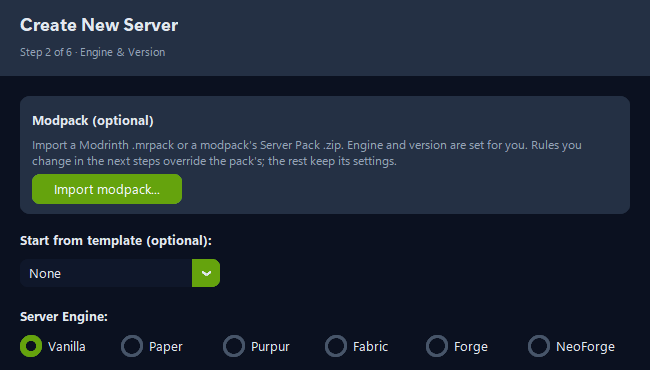
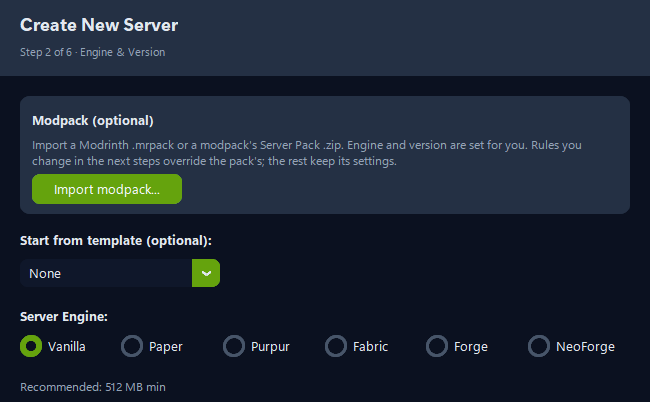
feat(site): motion that points at the features, cleaner wizard crops
- Wizard screenshots: a focus ring springs onto Import modpack and
  Browse worlds on CurseForge when the section scrolls in, then pulses
  twice; shots lift slightly on hover.
- Feature icons draw stroke by stroke; the rule above each getting-started
  step fills left to right in order; engines arrive one by one with a
  pulsing dot on NeoForge.
- All of it keys off .vitra-revealed, is static under reduced motion, and
  the page reveals everything if Vitra fails to load.
- Wizard crops end on whole controls instead of mid-field.

diff --git a/index.html b/index.html
@@ -56,20 +56,20 @@
 
   <!-- Line icons, same style as the app's own set (2px stroke, round caps) -->
   <svg width="0" height="0" style="position:absolute" aria-hidden="true">
-    <symbol id="i-layers" viewBox="0 0 24 24"><path d="M12 3 2 8l10 5 10-5-10-5z"/><path d="m2 13 10 5 10-5"/></symbol>
-    <symbol id="i-globe" viewBox="0 0 24 24"><circle cx="12" cy="12" r="9"/><path d="M3 12h18M12 3a14 14 0 0 1 0 18M12 3a14 14 0 0 0 0 18"/></symbol>
-    <symbol id="i-cup" viewBox="0 0 24 24"><path d="M4 9h12v5a5 5 0 0 1-5 5H9a5 5 0 0 1-5-5V9z"/><path d="M16 10h1.5a2.5 2.5 0 0 1 0 5H16"/><path d="M8 3v3M12 3v3"/></symbol>
-    <symbol id="i-pulse" viewBox="0 0 24 24"><path d="M3 12h4l2-6 4 12 2-6h6"/></symbol>
-    <symbol id="i-package" viewBox="0 0 24 24"><path d="M21 8 12 3 3 8v8l9 5 9-5V8z"/><path d="m3 8 9 5 9-5M12 13v8"/></symbol>
-    <symbol id="i-users" viewBox="0 0 24 24"><circle cx="9" cy="8" r="3.5"/><path d="M2.5 20a6.5 6.5 0 0 1 13 0"/><path d="M16 4.5a3.5 3.5 0 0 1 0 7M18 14a6 6 0 0 1 3.5 6"/></symbol>
-    <symbol id="i-archive" viewBox="0 0 24 24"><rect x="3" y="4" width="18" height="4" rx="1"/><path d="M5 8v11a1 1 0 0 0 1 1h12a1 1 0 0 0 1-1V8M10 12h4"/></symbol>
-    <symbol id="i-shield" viewBox="0 0 24 24"><path d="M12 3 4 6v6c0 4.5 3.4 8 8 9 4.6-1 8-4.5 8-9V6l-8-3z"/><path d="m9 12 2 2 4-4"/></symbol>
-    <symbol id="i-book" viewBox="0 0 24 24"><path d="M4 5a2 2 0 0 1 2-2h13v16H6a2 2 0 0 0-2 2V5z"/><path d="M4 19a2 2 0 0 1 2-2h13"/></symbol>
-    <symbol id="i-grid" viewBox="0 0 24 24"><rect x="3" y="3" width="7" height="7" rx="1"/><rect x="14" y="3" width="7" height="7" rx="1"/><rect x="3" y="14" width="7" height="7" rx="1"/><path d="M14 17.5h7M17.5 14v7"/></symbol>
-    <symbol id="i-list" viewBox="0 0 24 24"><path d="M9 6h11M9 12h11M9 18h11M4.5 6h.01M4.5 12h.01M4.5 18h.01"/></symbol>
-    <symbol id="i-alert" viewBox="0 0 24 24"><circle cx="12" cy="12" r="9"/><path d="M12 8v5M12 16h.01"/></symbol>
-    <symbol id="i-arrow" viewBox="0 0 24 24"><path d="M5 12h14M13 6l6 6-6 6"/></symbol>
-    <symbol id="i-download" viewBox="0 0 24 24"><path d="M21 15v4a2 2 0 0 1-2 2H5a2 2 0 0 1-2-2v-4"/><path d="m7 10 5 5 5-5M12 15V3"/></symbol>
+    <symbol id="i-layers" viewBox="0 0 24 24"><path pathLength="1" d="M12 3 2 8l10 5 10-5-10-5z"/><path pathLength="1" d="m2 13 10 5 10-5"/></symbol>
+    <symbol id="i-globe" viewBox="0 0 24 24"><circle pathLength="1" cx="12" cy="12" r="9"/><path pathLength="1" d="M3 12h18M12 3a14 14 0 0 1 0 18M12 3a14 14 0 0 0 0 18"/></symbol>
+    <symbol id="i-cup" viewBox="0 0 24 24"><path pathLength="1" d="M4 9h12v5a5 5 0 0 1-5 5H9a5 5 0 0 1-5-5V9z"/><path pathLength="1" d="M16 10h1.5a2.5 2.5 0 0 1 0 5H16"/><path pathLength="1" d="M8 3v3M12 3v3"/></symbol>
+    <symbol id="i-pulse" viewBox="0 0 24 24"><path pathLength="1" d="M3 12h4l2-6 4 12 2-6h6"/></symbol>
+    <symbol id="i-package" viewBox="0 0 24 24"><path pathLength="1" d="M21 8 12 3 3 8v8l9 5 9-5V8z"/><path pathLength="1" d="m3 8 9 5 9-5M12 13v8"/></symbol>
+    <symbol id="i-users" viewBox="0 0 24 24"><circle pathLength="1" cx="9" cy="8" r="3.5"/><path pathLength="1" d="M2.5 20a6.5 6.5 0 0 1 13 0"/><path pathLength="1" d="M16 4.5a3.5 3.5 0 0 1 0 7M18 14a6 6 0 0 1 3.5 6"/></symbol>
+    <symbol id="i-archive" viewBox="0 0 24 24"><rect pathLength="1" x="3" y="4" width="18" height="4" rx="1"/><path pathLength="1" d="M5 8v11a1 1 0 0 0 1 1h12a1 1 0 0 0 1-1V8M10 12h4"/></symbol>
+    <symbol id="i-shield" viewBox="0 0 24 24"><path pathLength="1" d="M12 3 4 6v6c0 4.5 3.4 8 8 9 4.6-1 8-4.5 8-9V6l-8-3z"/><path pathLength="1" d="m9 12 2 2 4-4"/></symbol>
+    <symbol id="i-book" viewBox="0 0 24 24"><path pathLength="1" d="M4 5a2 2 0 0 1 2-2h13v16H6a2 2 0 0 0-2 2V5z"/><path pathLength="1" d="M4 19a2 2 0 0 1 2-2h13"/></symbol>
+    <symbol id="i-grid" viewBox="0 0 24 24"><rect pathLength="1" x="3" y="3" width="7" height="7" rx="1"/><rect pathLength="1" x="14" y="3" width="7" height="7" rx="1"/><rect pathLength="1" x="3" y="14" width="7" height="7" rx="1"/><path pathLength="1" d="M14 17.5h7M17.5 14v7"/></symbol>
+    <symbol id="i-list" viewBox="0 0 24 24"><path pathLength="1" d="M9 6h11M9 12h11M9 18h11M4.5 6h.01M4.5 12h.01M4.5 18h.01"/></symbol>
+    <symbol id="i-alert" viewBox="0 0 24 24"><circle pathLength="1" cx="12" cy="12" r="9"/><path pathLength="1" d="M12 8v5M12 16h.01"/></symbol>
+    <symbol id="i-arrow" viewBox="0 0 24 24"><path pathLength="1" d="M5 12h14M13 6l6 6-6 6"/></symbol>
+    <symbol id="i-download" viewBox="0 0 24 24"><path pathLength="1" d="M21 15v4a2 2 0 0 1-2 2H5a2 2 0 0 1-2-2v-4"/><path pathLength="1" d="m7 10 5 5 5-5M12 15V3"/></symbol>
   </svg>
 
   <div id="sections-wrap">
@@ -89,8 +89,11 @@
 
         <div class="byo-grid">
           <figure class="shot vitra-reveal vitra-reveal-up vitra-delay-100">
-            <img src="assets/wizard-modpack.png" width="650" height="370" loading="lazy"
+            <div class="shot-media">
+              <img src="assets/wizard-modpack.png" width="650" height="402" loading="lazy"
                  alt="Creation wizard, Engine and Version step, with an Import modpack button and the six server engines">
+              <span class="focus" aria-hidden="true" style="--x:4.2%;--y:42.4%;--w:24.6%;--h:9.6%"></span>
+            </div>
             <figcaption>
               <strong>Import a modpack</strong>
               <span>The pack is checked before anything is created: loader, Minecraft version, file names and free disk space. If creation fails anyway, the half-built server is removed and you see why.</span>
@@ -98,8 +101,11 @@
           </figure>
 
           <figure class="shot vitra-reveal vitra-reveal-up vitra-delay-200">
-            <img src="assets/wizard-world.png" width="650" height="370" loading="lazy"
+            <div class="shot-media">
+              <img src="assets/wizard-world.png" width="650" height="402" loading="lazy"
                  alt="Creation wizard, World and Network step, with Import existing world selected and a link to browse worlds on CurseForge">
+              <span class="focus" aria-hidden="true" style="--x:52%;--y:57.6%;--w:33.4%;--h:8.8%"></span>
+            </div>
             <figcaption>
               <strong>Bring an existing world</strong>
               <span>ZBB reads the version the world was last saved with. A world newer than the server is refused, because an older server can corrupt it. Older worlds are upgraded on first start and the original stays untouched.</span>
@@ -107,14 +113,14 @@
           </figure>
         </div>
 
-        <ul class="engines vitra-reveal vitra-reveal-up" aria-label="Supported server engines">
-          <li>Engines</li>
-          <li>Vanilla</li>
-          <li>Paper</li>
-          <li>Purpur</li>
-          <li>Fabric</li>
-          <li>Forge</li>
-          <li class="is-new">NeoForge</li>
+        <ul class="engines vitra-reveal" aria-label="Supported server engines">
+          <li style="--i:0">Engines</li>
+          <li style="--i:1">Vanilla</li>
+          <li style="--i:2">Paper</li>
+          <li style="--i:3">Purpur</li>
+          <li style="--i:4">Fabric</li>
+          <li style="--i:5">Forge</li>
+          <li class="is-new" style="--i:6">NeoForge</li>
         </ul>
       </div>
     </section>

diff --git a/style.css b/style.css
@@ -527,10 +527,25 @@ body { background: var(--ground); color: var(--ink); }
   display: grid;
   gap: 0.6rem;
   align-content: start;
+  position: relative;
   padding-top: 1.25rem;
-  border-top: 2px solid var(--line-strong);
   counter-increment: step;
   min-width: 0;
+}
+
+/* A faint track with an accent fill on top (filled in MOTION below) */
+.step {
+  background: linear-gradient(var(--line-strong), var(--line-strong)) top left / 100% 2px no-repeat;
+}
+
+.step::after {
+  content: '';
+  position: absolute;
+  top: 0;
+  left: 0;
+  right: 0;
+  height: 2px;
+  background: var(--accent);
 }
 
 .step::before {
@@ -669,6 +684,110 @@ a:focus-visible {
 .site-footer a { color: var(--ink-soft); text-decoration: none; }
 .site-footer a:hover { color: var(--accent); }
 
+
+/* ═══════════════════════════════════════════
+   MOTION
+   Hooked to .vitra-revealed (added by Vitra.reveal
+   when an element scrolls in, or at once under
+   reduced motion). One idea per section.
+═══════════════════════════════════════════ */
+
+:root {
+  --ease-out-quart: cubic-bezier(0.25, 1, 0.5, 1);
+  --ease-spring: cubic-bezier(0.34, 1.56, 0.64, 1);
+}
+
+/* Wizard shots: a focus ring finds the control the caption talks about */
+.shot-media { position: relative; }
+
+.focus {
+  position: absolute;
+  left: var(--x);
+  top: var(--y);
+  width: var(--w);
+  height: var(--h);
+  border: 2px solid var(--accent);
+  border-radius: 8px;
+  box-shadow: 0 0 0 4px hsla(158, 64%, 52%, 0.18), 0 0 24px hsla(158, 64%, 52%, 0.35);
+  pointer-events: none;
+  opacity: 0;
+  transform: scale(1.35);
+}
+
+.vitra-revealed .focus {
+  animation:
+    focus-in 0.7s var(--ease-spring) 0.55s forwards,
+    focus-pulse 2.4s ease-in-out 1.4s 2;
+}
+
+@keyframes focus-in {
+  to { opacity: 1; transform: scale(1); }
+}
+
+@keyframes focus-pulse {
+  0%, 100% { box-shadow: 0 0 0 4px hsla(158, 64%, 52%, 0.18), 0 0 24px hsla(158, 64%, 52%, 0.35); }
+  50%      { box-shadow: 0 0 0 9px hsla(158, 64%, 52%, 0.06), 0 0 36px hsla(158, 64%, 52%, 0.5); }
+}
+
+.shot img { transition: transform 0.5s var(--ease-out-quart), box-shadow 0.5s var(--ease-out-quart); }
+.shot:hover img {
+  transform: translateY(-4px);
+  box-shadow: 0 32px 70px -24px rgba(0, 0, 0, 0.8);
+}
+
+/* Feature icons draw themselves stroke by stroke */
+.feature .ico {
+  stroke-dasharray: 1;
+  stroke-dashoffset: 1;
+  transition: stroke-dashoffset 1.1s var(--ease-out-quart) 0.2s;
+}
+
+.feature.vitra-revealed .ico { stroke-dashoffset: 0; }
+
+/* Steps: the rule above each step fills in order */
+.step::after {
+  transform: scaleX(0);
+  transform-origin: left;
+  transition: transform 0.9s var(--ease-out-quart) 0.25s;
+}
+
+.step.vitra-revealed::after { transform: scaleX(1); }
+
+/* Engines arrive one by one; NeoForge, the new one, lands last */
+.engines li {
+  opacity: 0;
+  transform: translateY(8px);
+  transition: opacity 0.45s var(--ease-out-quart), transform 0.45s var(--ease-out-quart);
+  transition-delay: calc(var(--i, 0) * 70ms);
+}
+
+.engines.vitra-revealed li { opacity: 1; transform: none; }
+
+.engines .is-new { position: relative; }
+.engines .is-new::after {
+  content: '';
+  position: absolute;
+  top: -2px;
+  right: -9px;
+  width: 6px;
+  height: 6px;
+  border-radius: 50%;
+  background: var(--accent);
+  opacity: 0;
+}
+
+.engines.vitra-revealed .is-new::after { animation: new-dot 1.6s ease-out 0.7s 3 both; }
+
+@keyframes new-dot {
+  0%   { opacity: 1; box-shadow: 0 0 0 0 hsla(158, 64%, 52%, 0.6); }
+  70%  { opacity: 1; box-shadow: 0 0 0 8px hsla(158, 64%, 52%, 0); }
+  100% { opacity: 1; box-shadow: 0 0 0 0 hsla(158, 64%, 52%, 0); }
+}
+
+/* Download: the arrow nudges down on hover, like a download starting */
+.dl-actions .hero-btn-primary .ico { transition: transform 0.3s var(--ease-spring); }
+.dl-actions .hero-btn-primary:hover .ico { transform: translateY(2px); }
+
 /* ═══════════════════════════════════════════
    RESPONSIVE
 ═══════════════════════════════════════════ */
@@ -710,4 +829,11 @@ a:focus-visible {
   .tiles-hint-sub {
     animation: none;
   }
+
+  .focus { opacity: 1; transform: none; animation: none !important; }
+  .feature .ico { stroke-dashoffset: 0; transition: none; }
+  .step::after { transform: scaleX(1); transition: none; }
+  .engines li { opacity: 1; transform: none; transition: none; }
+  .engines .is-new::after { opacity: 1; animation: none !important; }
+  .shot img, .shot:hover img { transition: none; transform: none; }
 }

diff --git a/script.js b/script.js
@@ -151,7 +151,11 @@
 
 // ── Vitra init ─────────────────────────────────────────────────
 window.addEventListener('load', () => {
-  if (typeof Vitra === 'undefined') return;
+  // Without Vitra nothing would ever add .vitra-revealed: show everything.
+  if (typeof Vitra === 'undefined') {
+    document.querySelectorAll('.vitra-reveal').forEach(el => el.classList.add('vitra-revealed'));
+    return;
+  }
   Vitra.theme.init({ defaultTheme: 'emerald', persist: false });
   Vitra.reveal.init({ threshold: 0.1, stagger: 80 });
   Vitra.tooltip.init();
